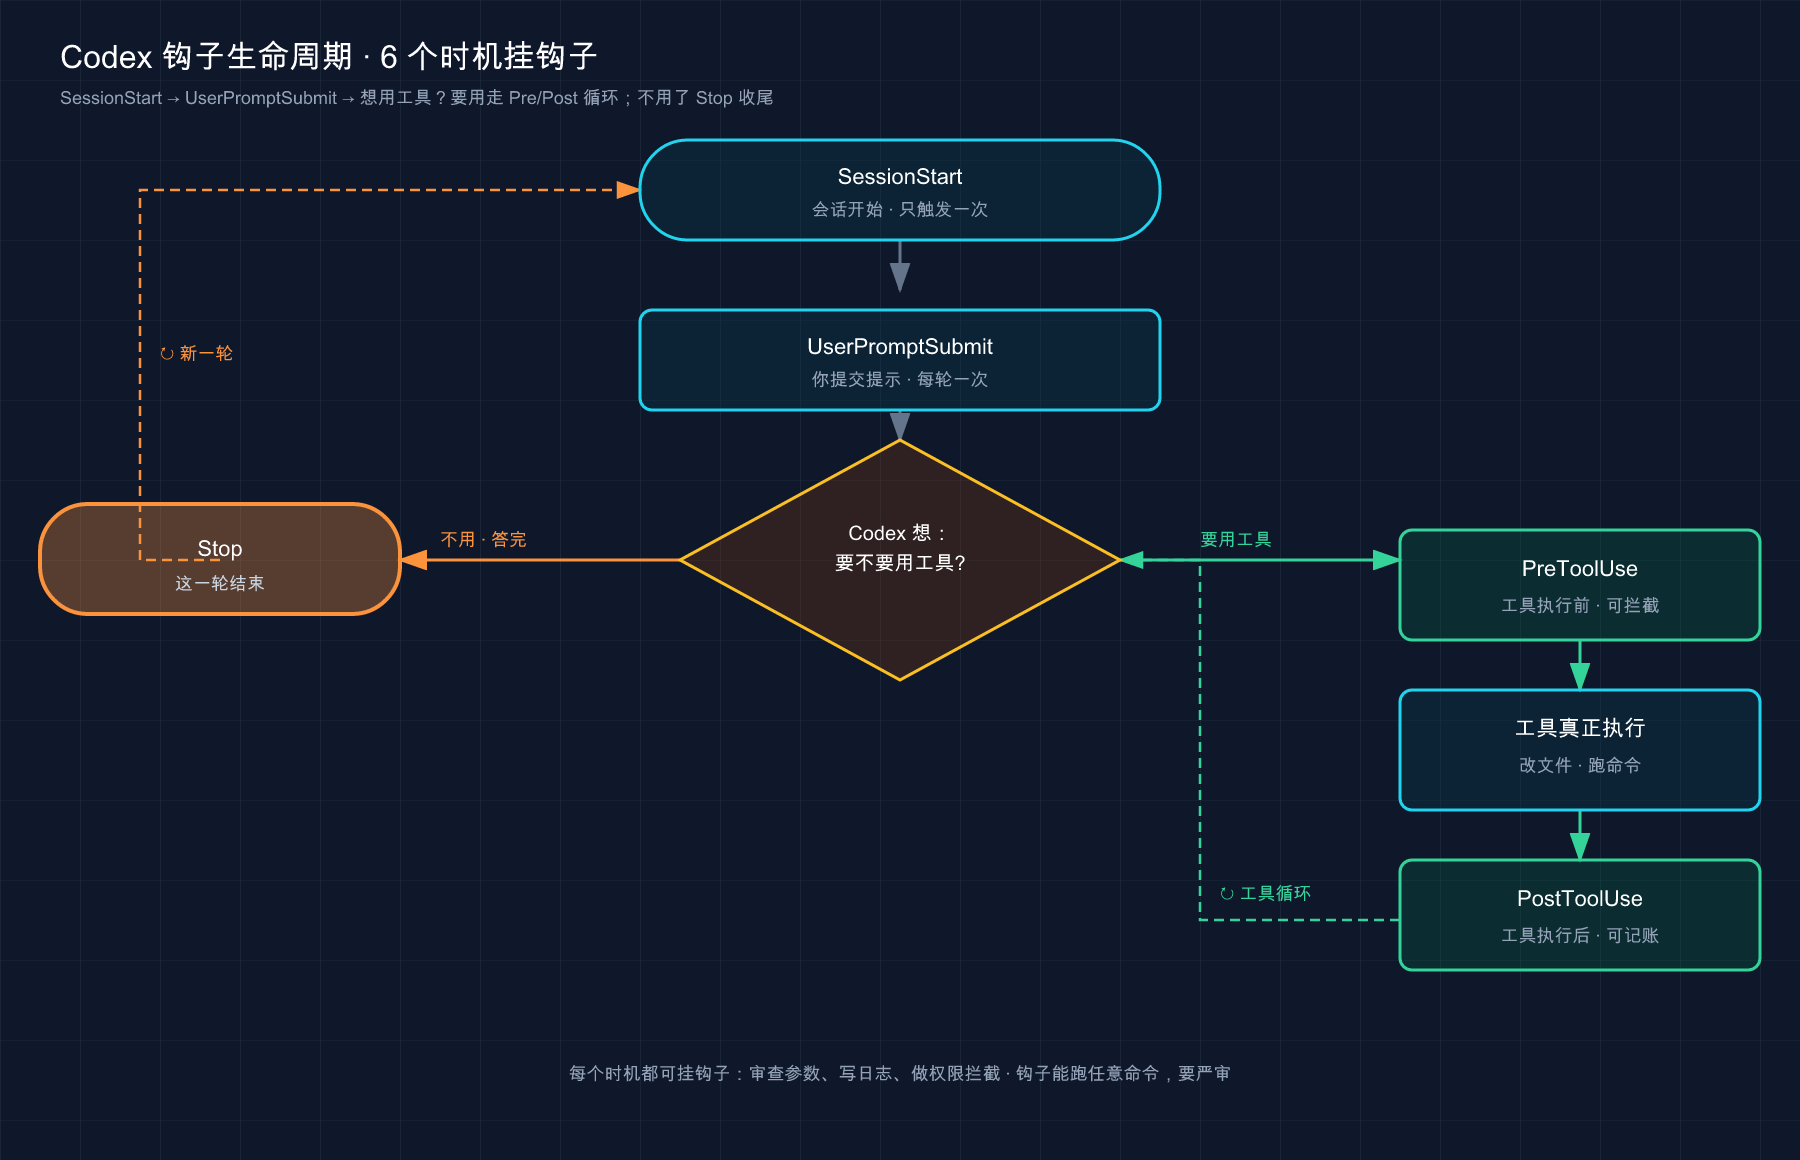
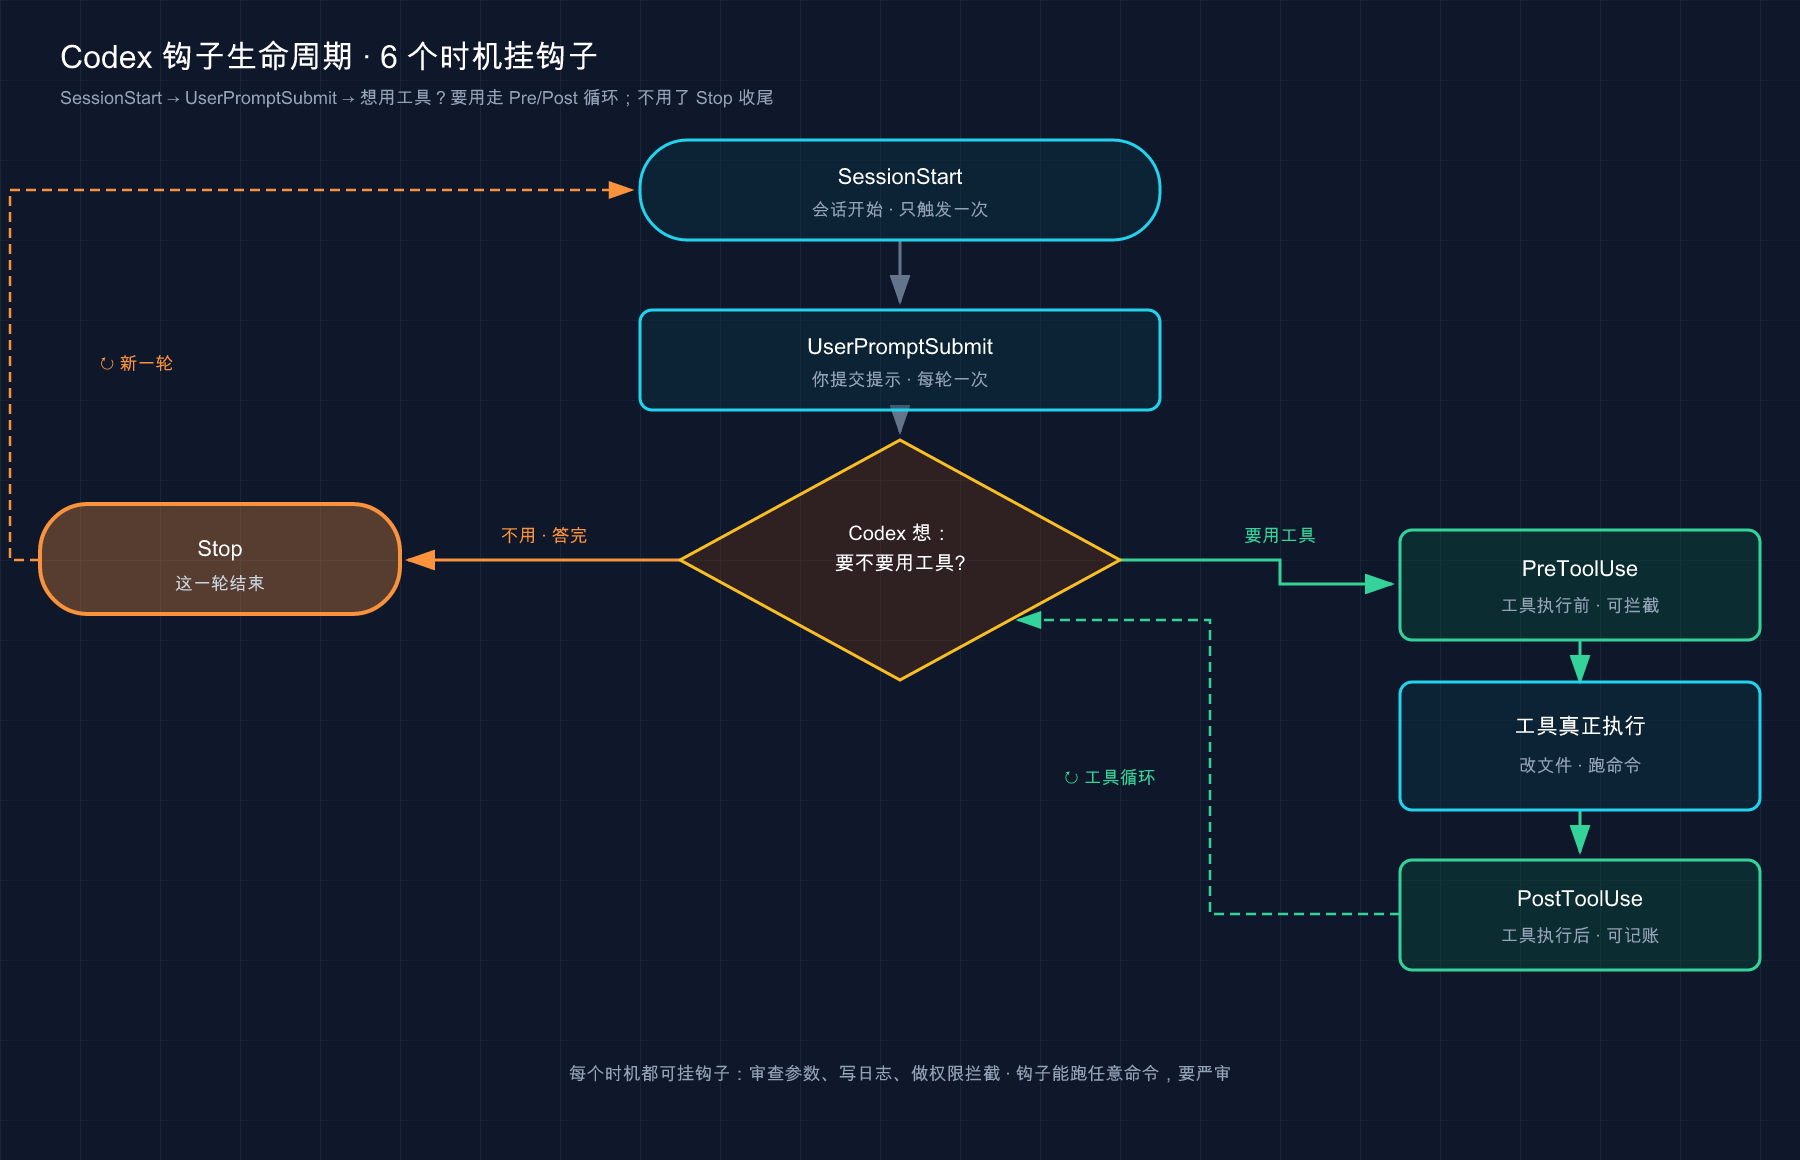
docs: 处理 issue #30——Codex 24/26/27 篇文案与图反馈

diff --git a/codex/26-git-github.md b/codex/26-git-github.md
@@ -236,7 +236,21 @@ Codex review 完，挂了一条 P1 在 PR 上。接下来呢？**你可以再留
 
 **本地自查一刀，远端 review 就清爽。** 这条链路我从今年三月用到现在，PR 上的 review 评论平均能少一半。
 
-> 💡 一句话总结：本地 `/review` 是**开 PR 前的自查门**——在终端选预设（未提交 / 比分支 / 某 commit / 自定义），它**只读不写**地报出按优先级排好的问题；先在本地改干净再推，远端 review 就少而精；要更强的审查模型设 `review_model`。
+### 什么时候只跑本地，什么时候要走两遍
+
+可能你会问：**本地都审过了，远端 `@codex review` 不就重复了么？** 这俩看着像一回事，其实**角色完全不同**——本地是「**作者自查**」，远端是「**PR 阶段的协作记录**」。一张表说清场景：
+
+| 你的情况 | 本地 `/review` | 远端 `@codex review` / 自动审查 |
+|---|---|---|
+| 个人仓库 · 自己写自己合 · 小改动 | ✅ 跑一遍就够 | ❌ 没必要再走一道 |
+| 团队仓库 · 要别人 review · 走 PR 流程 | ✅ 提交前先净一遍 | ✅ 让审查意见**留在 PR 上**当协作记录 |
+| 有保护分支、合并前要审查门 | ✅ 自查打底 | ✅ **守门用**，强制 PR 走一遍审查 |
+| 想让维护者 / reviewer 看到「机器先扫过一轮」 | ✅ | ✅ 评论挂在 PR 里，谁打开都能看 |
+| 改动很大、想要别人复核 | ✅ | ✅ 评论上下文 + 多人讨论入口 |
+
+一句话记法：**本地 review 是「作者角色」，远端 review 是「PR 协作角色」**。个人小项目走本地一刀就停手，别为了「显得正规」机械加一遍远端；团队 / 受保护分支 / 重要改动那种「需要留痕、需要门」的场景，远端这一刀的价值才显出来。
+
+> 💡 一句话总结：本地 `/review` 是**开 PR 前的自查门**——在终端选预设（未提交 / 比分支 / 某 commit / 自定义），它**只读不写**地报出按优先级排好的问题；先在本地改干净再推，远端 review 就少而精；要更强的审查模型设 `review_model`。**本地是作者自查、远端是 PR 协作记录**——个人小改动跑本地一刀就够，团队 / 受保护分支再叠远端那道门。
 
 ---
 

diff --git a/codex/27-automation.md b/codex/27-automation.md
@@ -84,6 +84,20 @@
 
 **类比：给保安排的那张「值班 + 交接」表。** 这份 YAML 其实是两班人接力：**第一班（`codex` job）是审查保安**，PR 一开他上岗审、把意见写在一张纸条上（`final-message` 输出）；**第二班（`post_feedback` job）是跑腿的**，等第一班审完、纸条上确实有字，他才把纸条贴到 PR 评论区。为什么要分两班？下一节讲权限时你会明白——**审查那班手里几乎没权限（只能读），贴评论那班才有写权限**，这是故意的安全设计。
 
+### 先讲清「这套东西到底配在哪、在哪儿跑」
+
+很多读者一上来就卡在「我抄了 YAML，怎么没反应」——其实抄 YAML 只是中间一步，前后还有几步「隐含前提」。下面这张 5 步清单把整条链路串清楚，照着对就不会漏：
+
+| 步骤 | 在哪做 | 干啥 |
+|---|---|---|
+| 1 · 仓库前提 | **GitHub** | 仓库托管在 GitHub 上、Actions 没被禁（个人仓库默认开） |
+| 2 · 加 Secret | 仓库 → **Settings → Secrets and variables → Actions** | 新建 `OPENAI_API_KEY`，下面 YAML 里 `secrets.OPENAI_API_KEY` 那处引用读的就是这个 |
+| 3 · 提两个文件 | **仓库根目录** | `.github/workflows/codex-review.yml` 主 workflow + `.github/codex/prompts/review.md` 审查指令——**两个都是仓库里的文件、要 commit + push**，不是写到本机 `~/.codex`，也不是在 GitHub 网页某个设置框里填 |
+| 4 · 触发它 | **GitHub** | 干 YAML 里 `on:` 指定的事——这份示例是 PR 的 `opened` / `synchronize` / `reopened`，所以**开 PR 或往 PR 推新提交**就触发 |
+| 5 · runner 跑起来 | **GitHub 云端 runner** | Actions 在云端 runner 上跑 `openai/codex-action@v1`，它**内部装 Codex CLI 并启动一次 `codex exec`** —— 所以 YAML 里你看不到 `codex exec` 这条命令，它被 action 封装了 |
+
+> ⚠️ **这条路不依赖把仓库托管到 Codex**（那是 Codex Cloud 的事）——只要仓库在 GitHub、Actions 能跑、Secret 配好、两个文件 commit 进去了，YAML 就工作。**GitHub Actions 路线 vs Codex Cloud 路线**是平行的两套，别混。
+
 先看完整示例（在官方示例基础上做了精简，照着抄改改就能用）：
 
 ```yaml